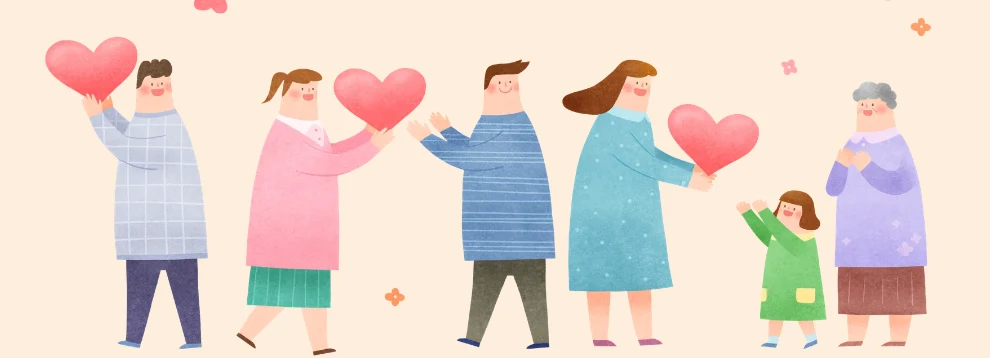
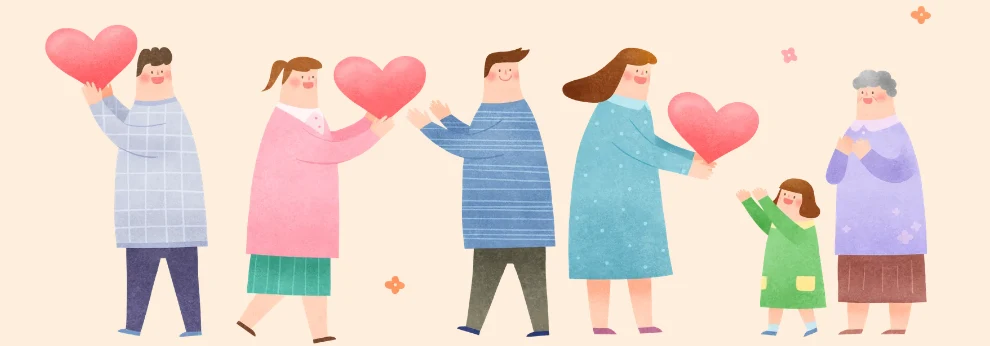
후원회원 삽화에서 잘린 꽃 조각 제거
라이브에서 보니 그림 왼쪽 위에 꽃 장식이 반쯤 잘려 남아 있었다.
자르는 위치를 더 내리면 하트가 잘려서, 자리는 그대로 두고
그 조각만 바탕색(#FEEEDD)으로 덮었다. 비율이 990/346 으로 바뀌어 CSS 도 맞췄다.

diff --git a/supporter.html b/supporter.html
@@ -72,7 +72,7 @@ nav {
 .hero-art { max-width: 860px; margin: 20px auto 0; }
 .hero-art img {
   width: 100%; height: auto; display: block;
-  aspect-ratio: 990 / 358;   /* 그림이 늦게 와도 자리를 미리 잡아 화면이 흔들리지 않게 합니다 */
+  aspect-ratio: 990 / 346;   /* 그림이 늦게 와도 자리를 미리 잡아 화면이 흔들리지 않게 합니다 */
   -webkit-mask-image: linear-gradient(to bottom, #000 58%, transparent 97%);
           mask-image: linear-gradient(to bottom, #000 58%, transparent 97%);
 }
